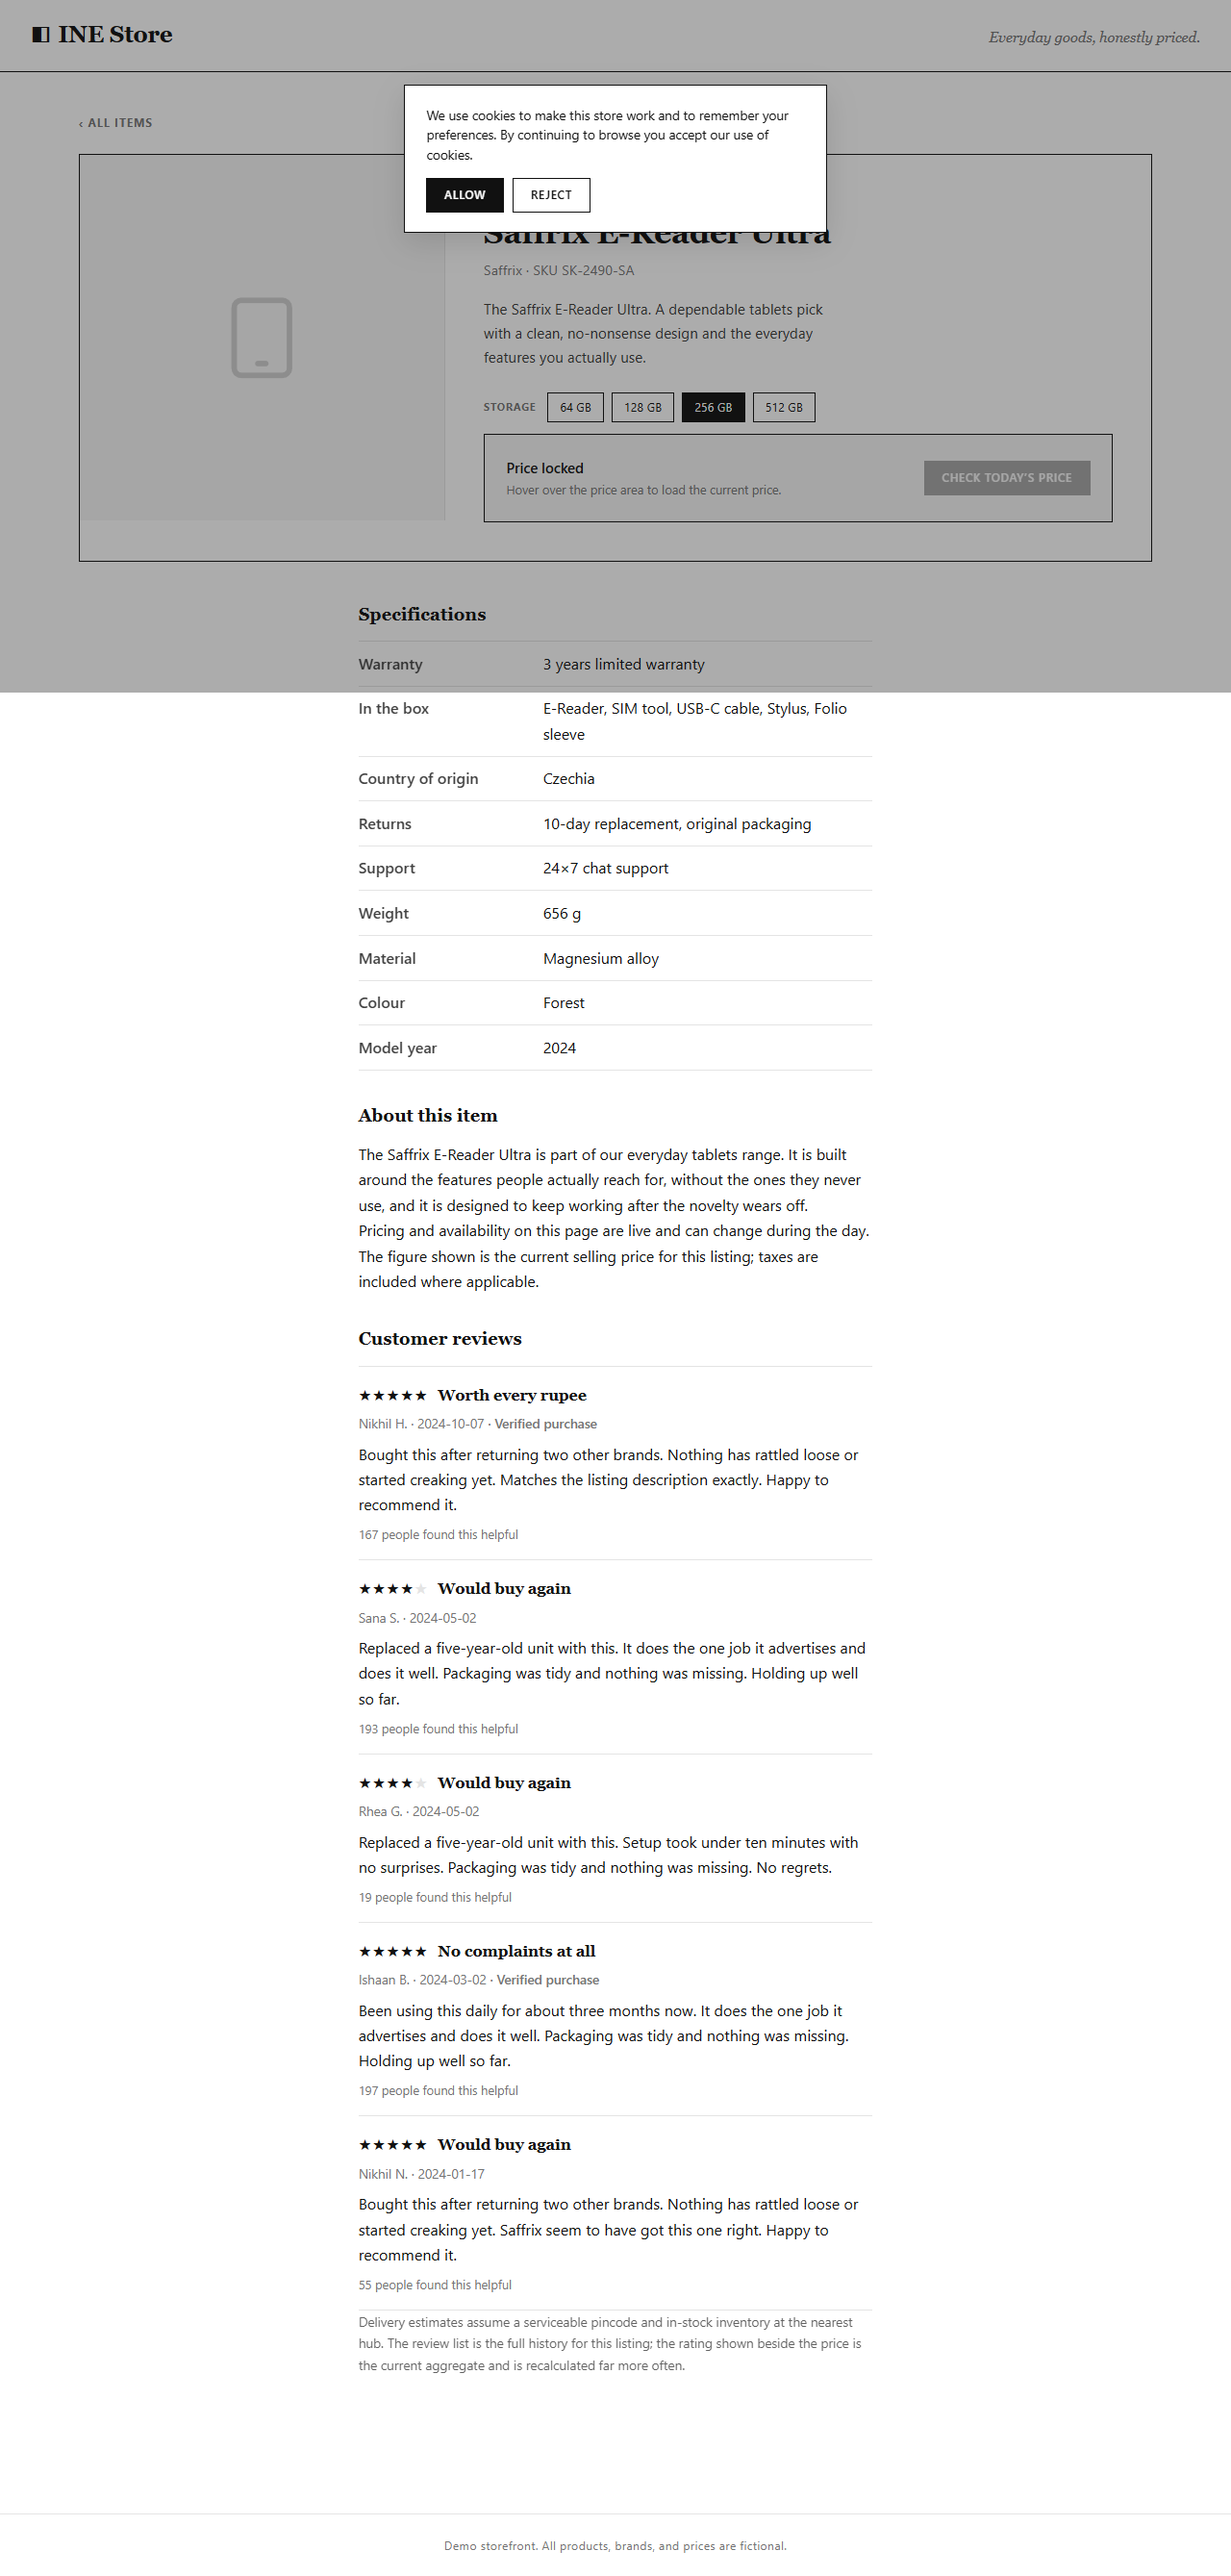
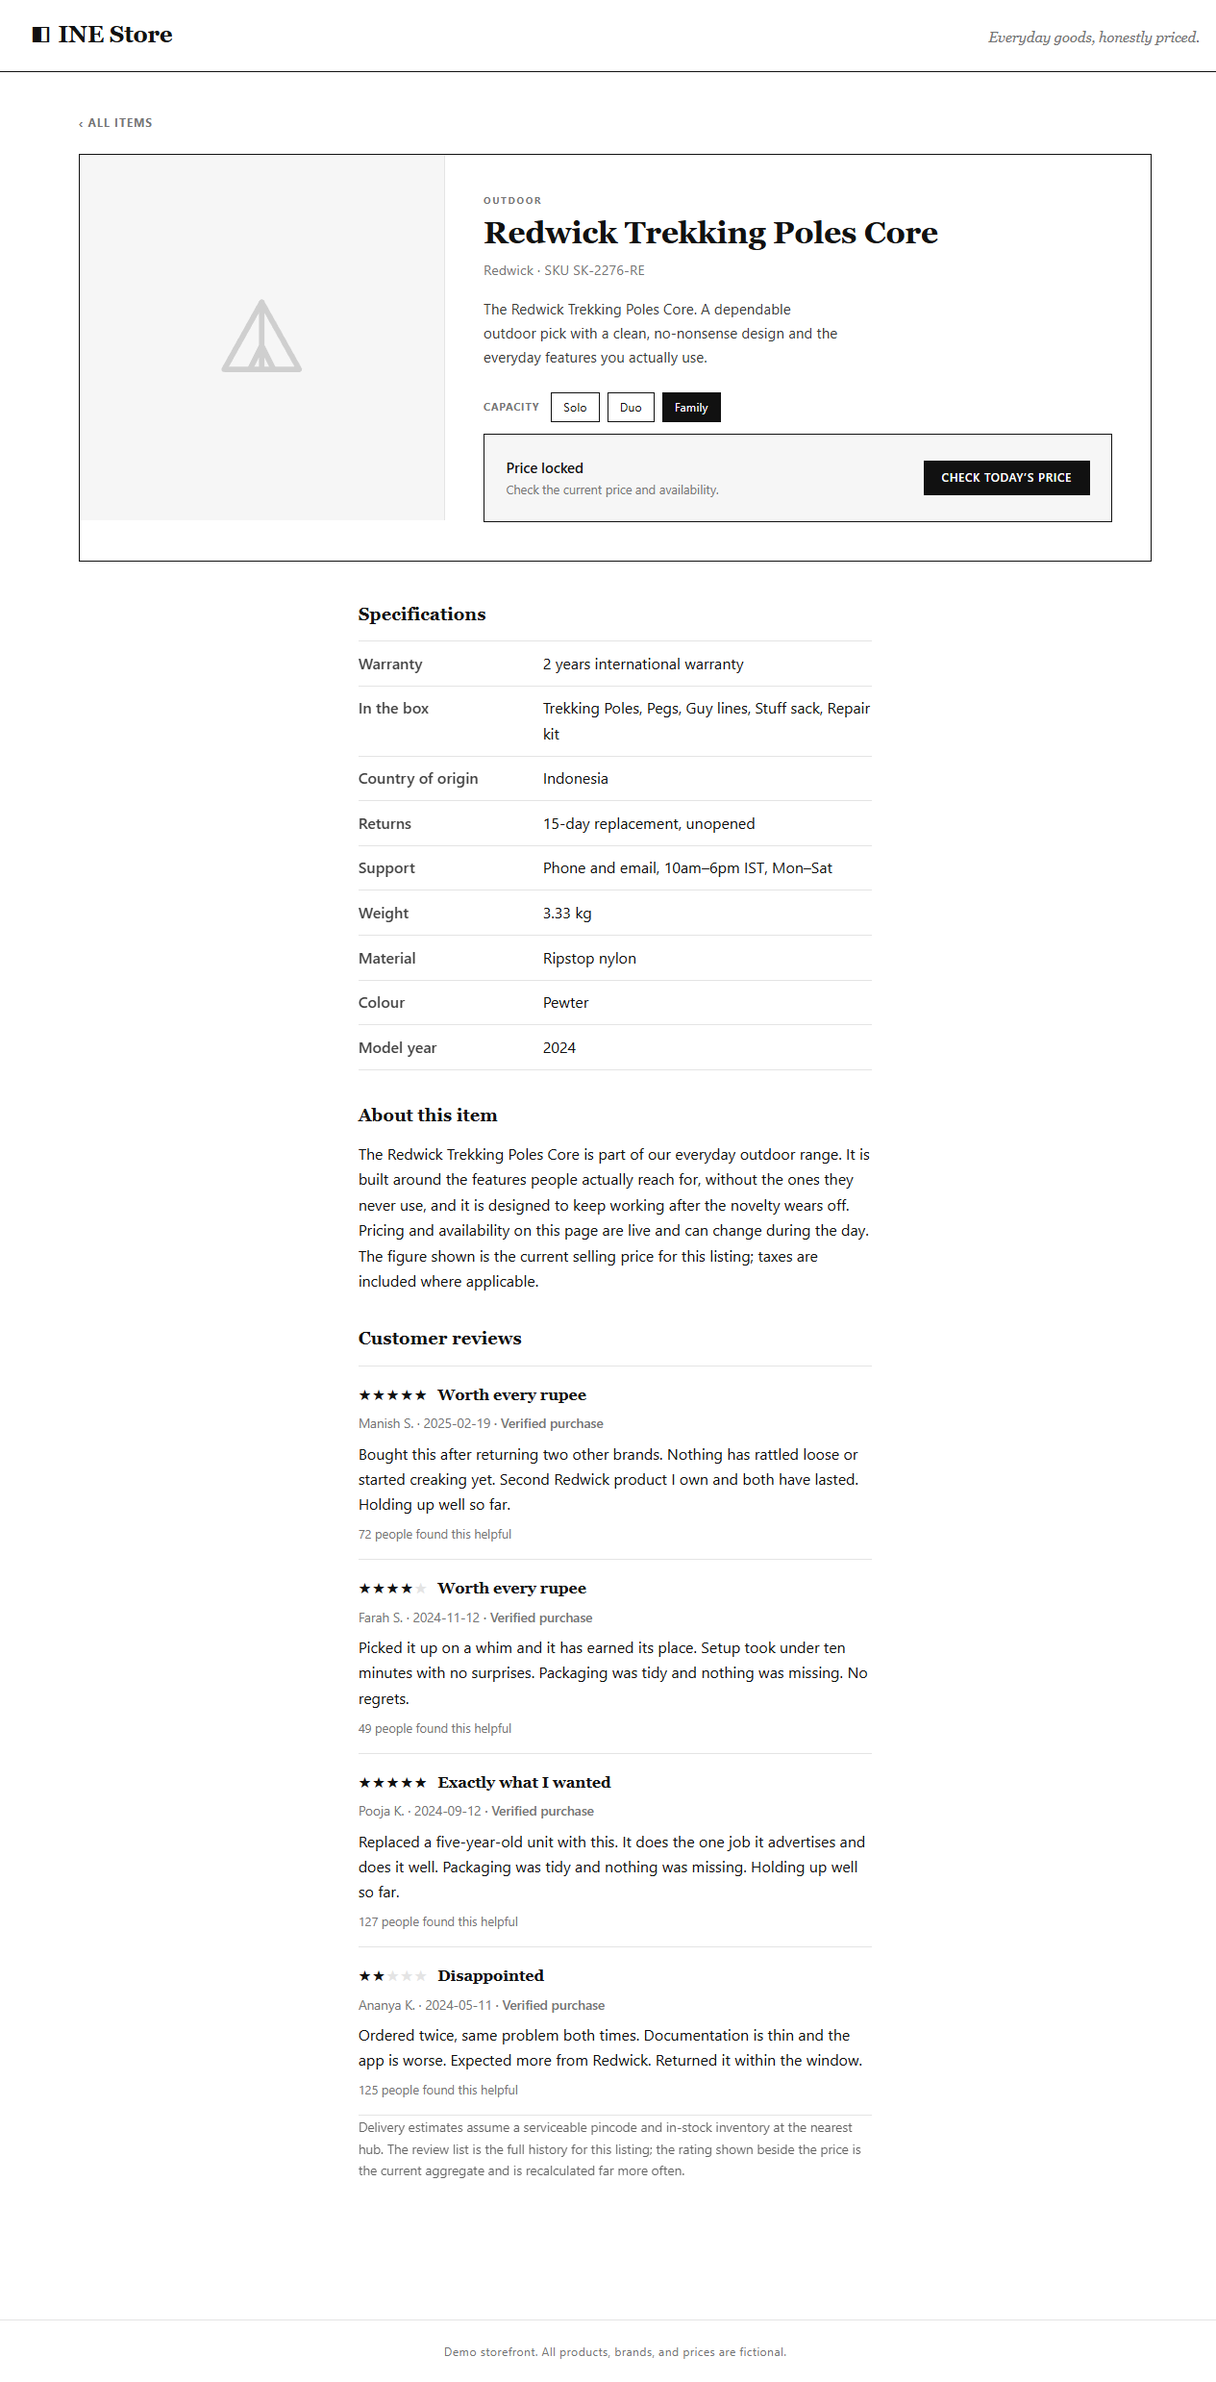
handle split-span and fullwidth-digit prices, pace scrapes

diff --git a/backend/src/scraper/scrapeProduct.js b/backend/src/scraper/scrapeProduct.js
@@ -1,7 +1,11 @@
 const { chromium } = require('playwright');
 
 function parsePrice(raw) {
-  const s = raw.replace(/[^\d.,]/g, '').trim();
+  const normalized = raw
+    .replace(/[\uFF10-\uFF19]/g, (ch) => String.fromCharCode(ch.charCodeAt(0) - 0xff10 + 0x30))
+    .replace(/\uFF0C/g, ',')
+    .replace(/\uFF0E/g, '.');
+  const s = normalized.replace(/[^\d.,]/g, '').trim();
   const lastComma = s.lastIndexOf(',');
   const lastDot = s.lastIndexOf('.');
   const lastSep = Math.max(lastComma, lastDot);
@@ -43,50 +47,63 @@ async function extractPriceAndStock(page) {
     const panel = document.querySelector('.offer-panel');
     if (!panel) return { priceText: null, stockText: null };
 
-    // Digits are sometimes split across sibling <span> chars and/or
-    // rendered as fullwidth Unicode (U+FF10-FF19) instead of ASCII --
-    // both defeat a naive \d-on-a-leaf-node scan. Normalize first.
-    function normalizeDigits(str) {
-      return str.replace(/[\uFF10-\uFF19]/g, (ch) =>
-        String.fromCharCode(ch.charCodeAt(0) - 0xFF10 + 0x30)
-      );
-    }
-    function normText(el) {
-      return normalizeDigits(el.textContent || '');
+    // The price can be rendered in awkward ways: fullwidth Unicode digits
+    // (e.g. "１４５"), one <span> per character, and zero-width or
+    // non-breaking spaces mixed in. Normalize all of that before matching.
+    function normalize(str) {
+      return (str || '')
+        .replace(/[\uFF10-\uFF19]/g, (ch) =>
+          String.fromCharCode(ch.charCodeAt(0) - 0xff10 + 0x30)
+        )
+        .replace(/\uFF0C/g, ',')
+        .replace(/\uFF0E/g, '.')
+        .replace(/[\u200B\u200C\u200D\uFEFF\u00A0\s]/g, '');
     }
 
-    const CURRENCY_RE = /[₹$]\s*[\d\s.,\u00A0\u200B]*\d/;
-    const STOCK_RE = /in stock|out of stock|sold out|\d+\s*(units?|left|remaining)/i;
+    // An element counts as "a price" only if its ENTIRE text is a single
+    // currency amount. That excludes containers holding several prices at
+    // once, and labelled lines such as "Member price ₹35,805".
+    const PRICE_ONLY_RE = /^[₹$][\d.,]*\d$/;
+    const STOCK_RE = /in stock|out of stock|sold out|\d+\s*(units?|left|remaining|available)/i;
 
     function isVisible(el) {
-      const style = window.getComputedStyle(el);
-      if (style.display === 'none' || style.visibility === 'hidden') return false;
-      if (parseFloat(style.opacity) === 0) return false;
-      if (el.closest('[aria-hidden="true"]')) return false;
+      if (!el.getClientRects().length) return false;
+      for (let node = el; node && node !== panel.parentElement; node = node.parentElement) {
+        const s = window.getComputedStyle(node);
+        if (s.display === 'none' || s.visibility === 'hidden') return false;
+        if (parseFloat(s.opacity) === 0) return false;
+        if (node.getAttribute('aria-hidden') === 'true') return false;
+      }
       return true;
     }
+
+    // A strike-through set on a parent doesn't appear in a child's own
+    // computed style, so check every ancestor up to the panel.
     function isStruckThrough(el) {
-      return window.getComputedStyle(el).textDecorationLine.includes('line-through');
+      for (let node = el; node && node !== panel.parentElement; node = node.parentElement) {
+        if (window.getComputedStyle(node).textDecorationLine.includes('line-through')) {
+          return true;
+        }
+      }
+      return false;
     }
+
     function isEmphasized(el) {
-      const weight = parseInt(window.getComputedStyle(el).fontWeight, 10) || 400;
+      const s = window.getComputedStyle(el);
+      const weight = parseInt(s.fontWeight, 10) || 400;
       return weight >= 700 || el.tagName === 'B' || el.tagName === 'STRONG';
     }
 
     const all = Array.from(panel.querySelectorAll('*'));
 
-    // Match on full (descendant-inclusive) text, not just leaf nodes.
-    const matching = all.filter((el) => CURRENCY_RE.test(normText(el)));
-    // Keep only the innermost match per branch (drop wrapper ancestors).
-    const priceCandidates = matching.filter(
-      (el) => !matching.some((other) => other !== el && el.contains(other))
+    const candidates = all.filter(
+      (el) =>
+        PRICE_ONLY_RE.test(normalize(el.textContent)) &&
+        isVisible(el) &&
+        !isStruckThrough(el)
     );
-
-    const visibleNonStruck = priceCandidates.filter(
-      (el) => isVisible(el) && !isStruckThrough(el)
-    );
-    const emphasized = visibleNonStruck.filter(isEmphasized);
-    const realPriceEl = (emphasized.length ? emphasized : visibleNonStruck)[0];
+    const emphasized = candidates.filter(isEmphasized);
+    const realPriceEl = (emphasized.length ? emphasized : candidates)[0];
 
     let stockText = null;
     const availEl = panel.querySelector('[class*="avail"]');
@@ -94,17 +111,21 @@ async function extractPriceAndStock(page) {
       stockText = availEl.textContent.trim();
     } else {
       const stockCandidate = all.find(
-        (el) => el.children.length === 0 && STOCK_RE.test(el.textContent || '') && isVisible(el)
+        (el) =>
+          el.children.length === 0 &&
+          STOCK_RE.test(el.textContent || '') &&
+          isVisible(el)
       );
       if (stockCandidate) stockText = stockCandidate.textContent.trim();
     }
 
     return {
-      priceText: realPriceEl ? normalizeDigits(realPriceEl.textContent) : null,
+      priceText: realPriceEl ? normalize(realPriceEl.textContent) : null,
       stockText,
     };
   });
 }
+
 async function scrapeProductOnce(browser, productId, optionLabel) {
   const context = await browser.newContext();
   await context.addInitScript(() => {
@@ -138,10 +159,8 @@ async function scrapeProductOnce(browser, productId, optionLabel) {
     // already starting inside the target area (this can differ between
     // headed and headless launches).
     await page.mouse.move(0, 0);
-await page.mouse.move(box.x + box.width / 2, box.y + box.height / 2, { steps: 15 });
-await page.waitForTimeout(150);
-// nudge slightly -- some listeners want a second distinct mousemove, not just entry
-await page.mouse.move(box.x + box.width / 2 + 3, box.y + box.height / 2 + 3, { steps: 5 });
+    await page.mouse.move(box.x + box.width / 2, box.y + box.height / 2);
+
     const revealButton = page.locator('.offer-panel button.ctl-main');
     try {
       await page.waitForFunction(

diff --git a/backend/src/scraper/Scheduledscrape.js b/backend/src/scraper/Scheduledscrape.js
@@ -14,6 +14,14 @@ require('dotenv').config({ path: require('path').join(__dirname, '..', '..', '.e
 const { createClient } = require('@supabase/supabase-js');
 const { scrapeProductWithRetries } = require('./scrapeProduct');
 
+const sleep = (ms) => new Promise((r) => setTimeout(r, ms));
+
+// Observed: within one run the first few products succeed, then the rest
+// stall at the reveal step (button never enables), even across retries.
+// That pattern looks like the site throttling reveals per IP, so we pace
+// requests instead of firing them back to back.
+const PAUSE_BETWEEN_PRODUCTS_MS = 45000;
+
 const supabase = createClient(
   process.env.SUPABASE_URL,
   process.env.SUPABASE_SERVICE_ROLE_KEY
@@ -34,7 +42,11 @@ async function main() {
 
   console.log(`Found ${products.length} active tracked product(s)`);
 
-  for (const product of products) {
+  for (let i = 0; i < products.length; i++) {
+    const product = products[i];
+    if (i > 0) {
+      await sleep(PAUSE_BETWEEN_PRODUCTS_MS + Math.floor(Math.random() * 15000));
+    }
     const result = await scrapeProductWithRetries(
       product.store_product_id,
       product.option_label,
